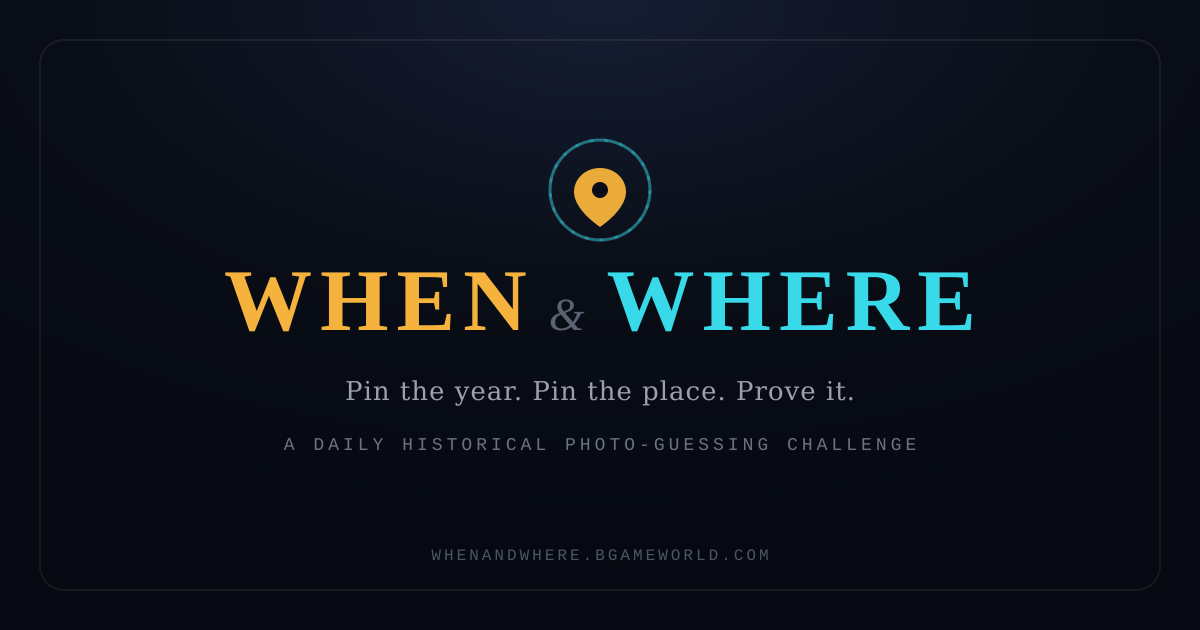
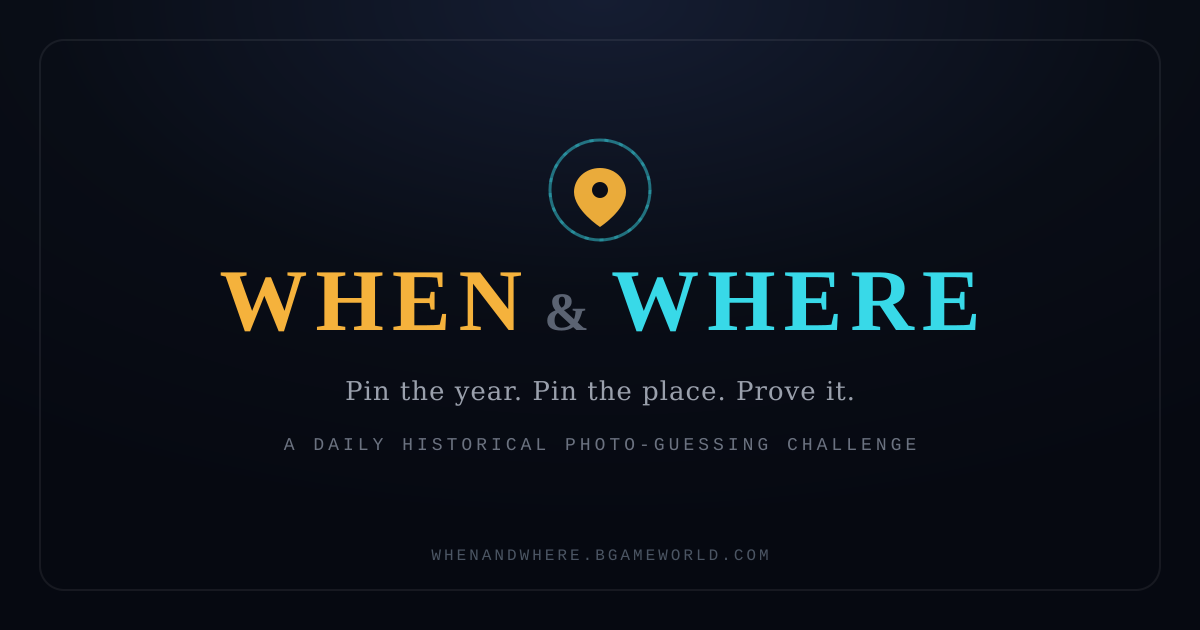
Fix malformed & glyph in wordmark (header, boot loader, OG image)
The italic swash-serif ampersand used across the "When & Where" wordmark
rendered as an open loop that read as incomplete/unfinished rather than
a proper &. Switched it to the same bold Cinzel font as the rest of the
wordmark (non-italic) in the header logo and boot-loader screen, and
regenerated the OG share image with the matching fix.

Claude-Session: https://claude.ai/code/session_019MLWzXHQReFbMntvwPYfKW

Changed region(s): [[0.185, 0.4222, 0.8325, 0.5429]]

diff --git a/src/components/Header.tsx b/src/components/Header.tsx
@@ -66,7 +66,7 @@ export const Header: React.FC<HeaderProps> = ({
             <span className="text-transparent bg-clip-text bg-gradient-to-r from-amber-200 via-amber-400 to-amber-500">
               When
             </span>
-            <span className="text-slate-400 font-serif-display italic text-base xs:text-lg sm:text-xl mx-1 font-normal">
+            <span className="text-slate-400 font-cinzel text-lg xs:text-xl sm:text-2xl mx-1 font-black">
               &amp;
             </span>
             <span className="text-transparent bg-clip-text bg-gradient-to-r from-cyan-300 via-sky-400 to-emerald-400">

diff --git a/index.html b/index.html
@@ -114,10 +114,10 @@
       #initial-loader .wwr-loader-mark .amber { color: #f5b23c; }
       #initial-loader .wwr-loader-mark .cyan { color: #38d9e8; }
       #initial-loader .wwr-loader-mark .amp {
-        font-family: Georgia, serif;
-        font-style: italic;
-        font-weight: 400;
-        font-size: 18px;
+        font-family: 'Cinzel', Georgia, serif;
+        font-style: normal;
+        font-weight: 700;
+        font-size: 22px;
         color: #5b6372;
         margin: 0 2px;
       }
